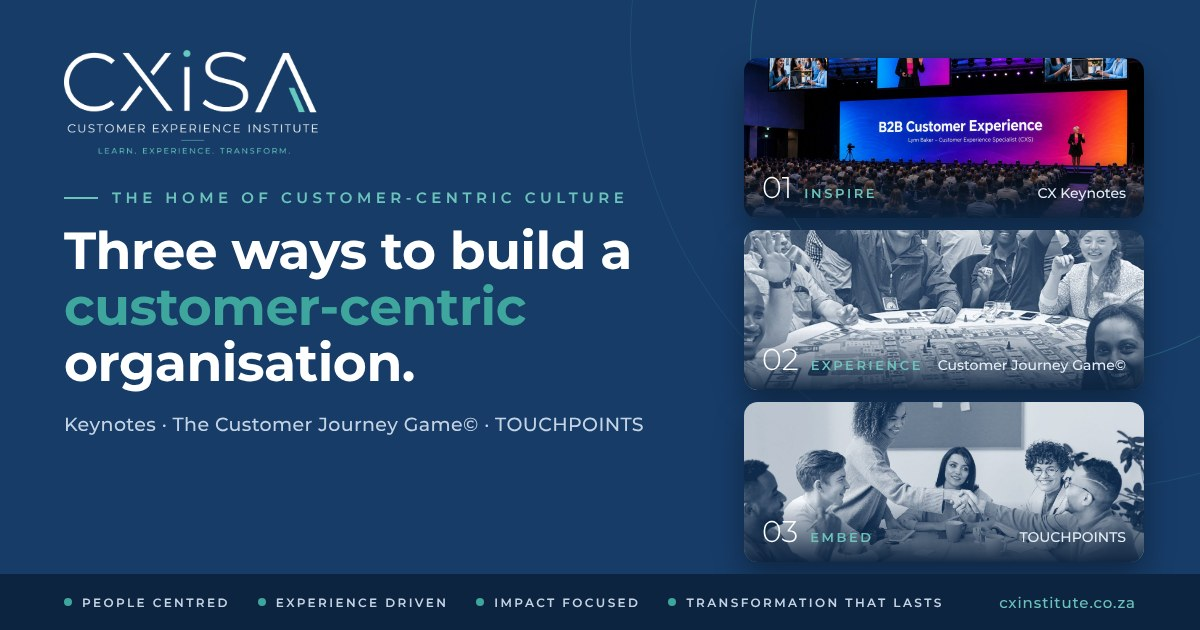
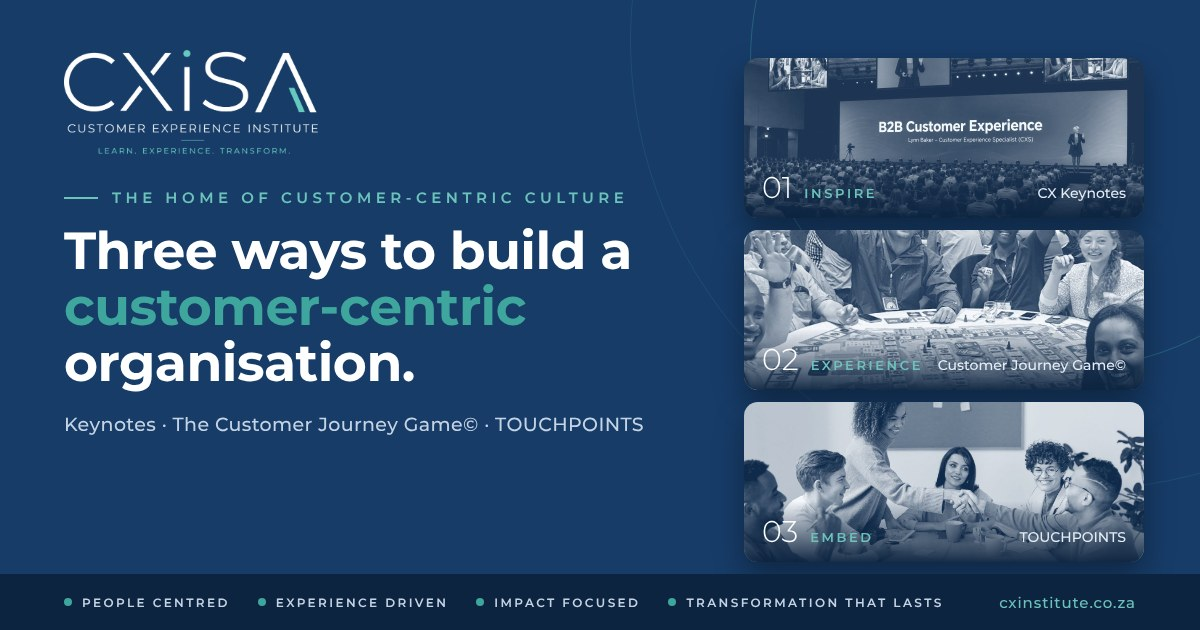
Share image: tone the Inspire photo to match the other two
The keynote stage photo was full colour; it now uses the same navy
black-and-white tone as the Experience and Embed photos.

Claude-Session: https://claude.ai/code/session_01SqRi7834NSFcoj79pzUNNv

Changed region(s): [[0.6167, 0.0905, 0.9558, 0.3317]]

diff --git a/tools/thumbnail/og-cxinstitute.html b/tools/thumbnail/og-cxinstitute.html
@@ -34,7 +34,7 @@ h1 span{color:#3EA69D}
   <p class="tag">Keynotes · The Customer Journey Game© · TOUCHPOINTS</p>
 </div>
 <div class="tiles">
-  <div class="tile"><img src="../../public/assets/img/keynotes/b2b-card.jpg"><div class="lab"><b>01</b><i>Inspire</i><em>CX Keynotes</em></div></div>
+  <div class="tile"><img src="tile-inspire-toned.jpg"><div class="lab"><b>01</b><i>Inspire</i><em>CX Keynotes</em></div></div>
   <div class="tile"><img src="../../public/assets/img/game-table.jpg"><div class="lab"><b>02</b><i>Experience</i><em>Customer Journey Game©</em></div></div>
   <div class="tile"><img src="../../public/assets/img/touchpoints-team.jpg"><div class="lab"><b>03</b><i>Embed</i><em>TOUCHPOINTS</em></div></div>
 </div>
